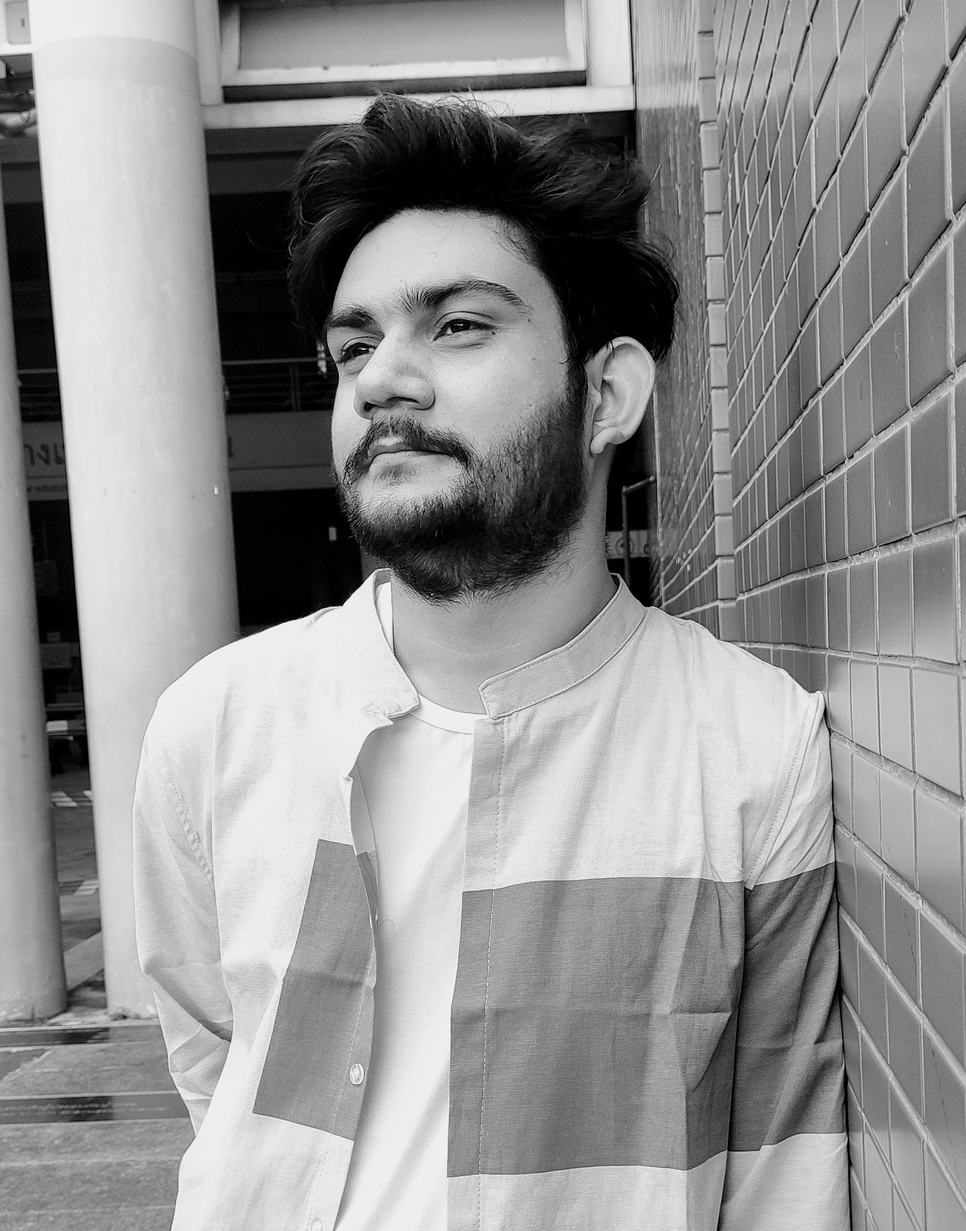
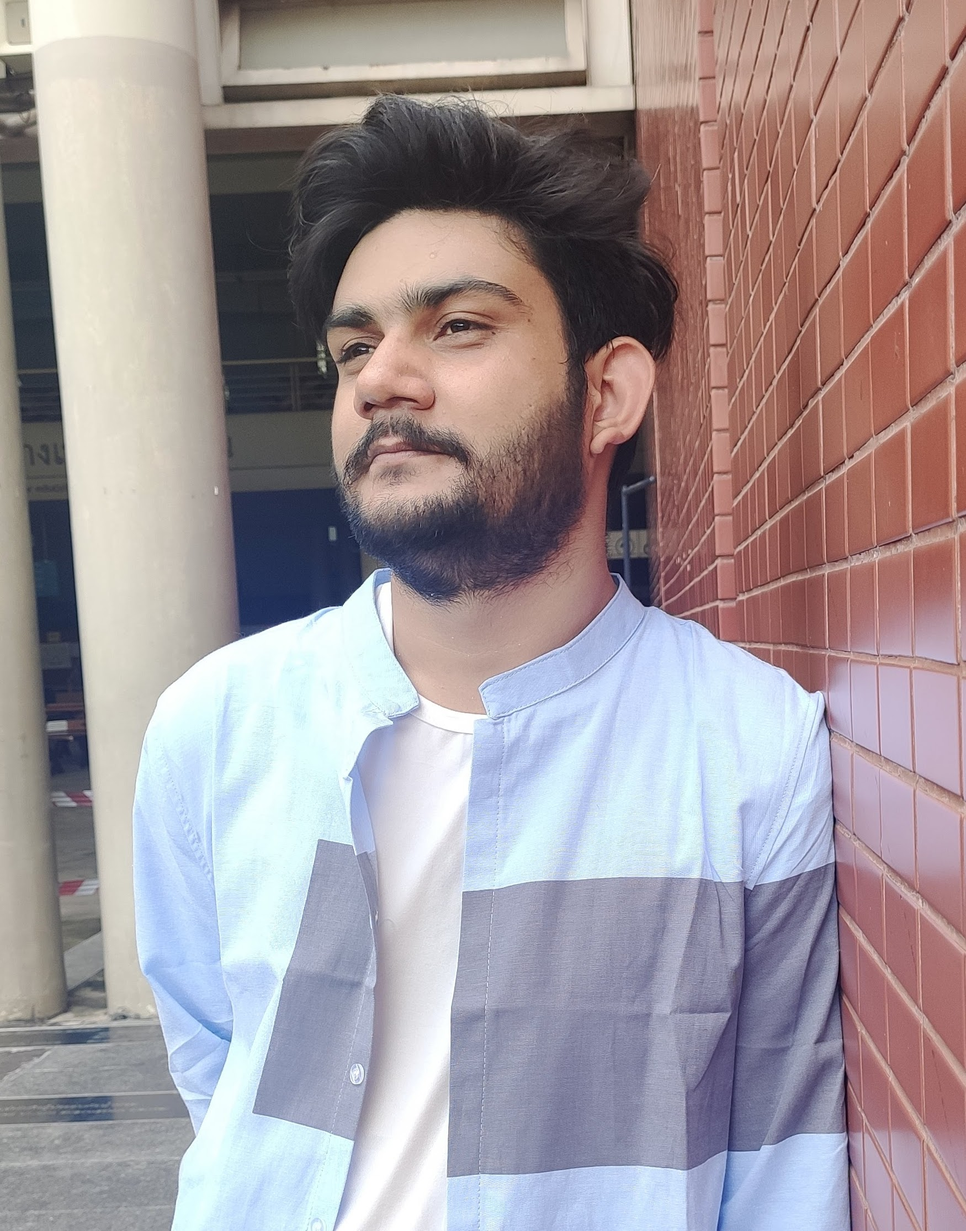
image grayscale to color / loader added

diff --git a/src/components/Portfolio/Portfolio.jsx b/src/components/Portfolio/Portfolio.jsx
@@ -116,14 +116,17 @@ const Portfolio = () => {
 
     </div>
     
-
+{
+    isloading === true ?       
+    <div className='portfolio__loader'><i class='bx bx-loader-alt bx-spin portfolio__loader-icon'></i></div>
+    :
     <div className="portfolio__main-container">
-    <div className="portfolio__slider-left-icon" onClick={() => slideLeft()}> 
-            <i className="uil uil-arrow-circle-left"></i>
+        <div className="portfolio__slider-left-icon" onClick={() => slideLeft()}> 
+            <i className="uil uil-arrow-left"></i>
         </div>
 
         <div className="portfolio__slider-right-icon" onClick={() => slideRight()}>
-            <i className="uil uil-arrow-circle-right"></i>
+            <i className="uil uil-arrow-right"></i>
         </div>
 
         <div className="portfolio__slider-dots">
@@ -138,13 +141,8 @@ const Portfolio = () => {
         </div>
         
 
-
 <div className='grid container portfolio__holder' id="portfolio__holder-id">
    
-
-    
-    
-    
     {
         projects != null && projects[activeNav] != null && isloading === false && 
         projects[activeNav].map((project, index) => {
@@ -171,9 +169,11 @@ const Portfolio = () => {
        
             )
         })
-    }
+}
     </div>
+
     </div>
+}
    
     
     {modal.show && modal.data && <Modal closeModal={handleClose} data={modal.data} />}

diff --git a/public/index.html b/public/index.html
@@ -42,8 +42,8 @@
     <link href='https://unpkg.com/boxicons@2.1.4/css/boxicons.min.css' rel='stylesheet'>
     <link rel='stylesheet' href='https://unicons.iconscout.com/release/v4.0.0/css/line.css' >
     <script src="https://unpkg.com/boxicons@2.1.3/dist/boxicons.js"></script>
-    <script async src="https://api.countapi.xyz/hit/vishaljangid123.github.io/visit__footer?callback=cb"></script>
-    <script>
+    <!-- <script async src="https://api.countapi.xyz/hit/vishaljangid123.github.io/visit__footer?callback=cb"></script>
+    <script> -->
       function cb(response) {
         console.log(response)
         if(response.value != undefined)

diff --git a/src/components/Github/Github.jsx b/src/components/Github/Github.jsx
@@ -4,7 +4,7 @@ const Github = () => {
   return (
     <section className="contact section" id="contact">
     <h2 className="section__title">Github</h2>
-    <span className="section__subtitle">Contact</span>
+    <span className="section__subtitle">My contributions</span>
     <div className="container">
    
     {/* <GitHubCalendar username="VishalJangid123" 

diff --git a/src/components/Portfolio/portfolio.css b/src/components/Portfolio/portfolio.css
@@ -5,6 +5,16 @@
     max-width: 1200px;
 }
 
+.portfolio__loader{
+    display: flex;
+    align-items: center;
+    justify-content: center;
+    margin: var(--mb-2);
+}
+
+.portfolio__loader-icon{
+    font-size: 5rem;
+}
 
 /* SLIDER */
 .portfolio__swipe-more{

diff --git a/src/components/Home/home.css b/src/components/Home/home.css
@@ -72,6 +72,12 @@
     width: 300px;
     height: 300px;
     animation: profile__animate 8s ease-in-out infinite 1s;
+    filter: grayscale(100%);
+}
+
+.home__img:hover{
+    filter: grayscale(0);
+
 }
 
 @keyframes profile__animate {

diff --git a/src/components/About/about.css b/src/components/About/about.css
@@ -8,6 +8,11 @@
     width: 350px;
     border-radius: 1.5rem;
     justify-self: center;
+    filter: grayscale(100%);
+}
+
+.about__img:hover{
+    filter: grayscale(0);
 }
 
 .about__info{
